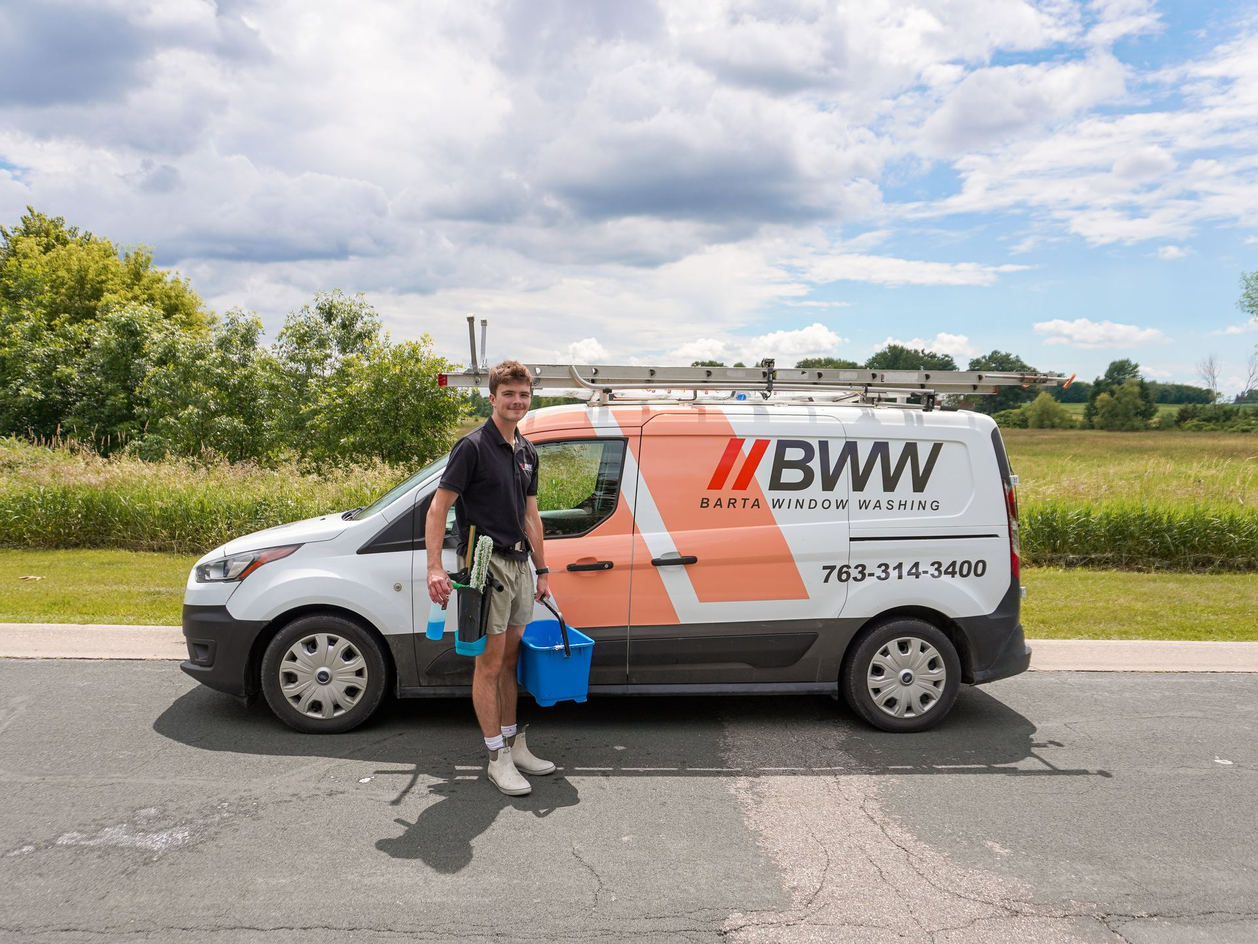
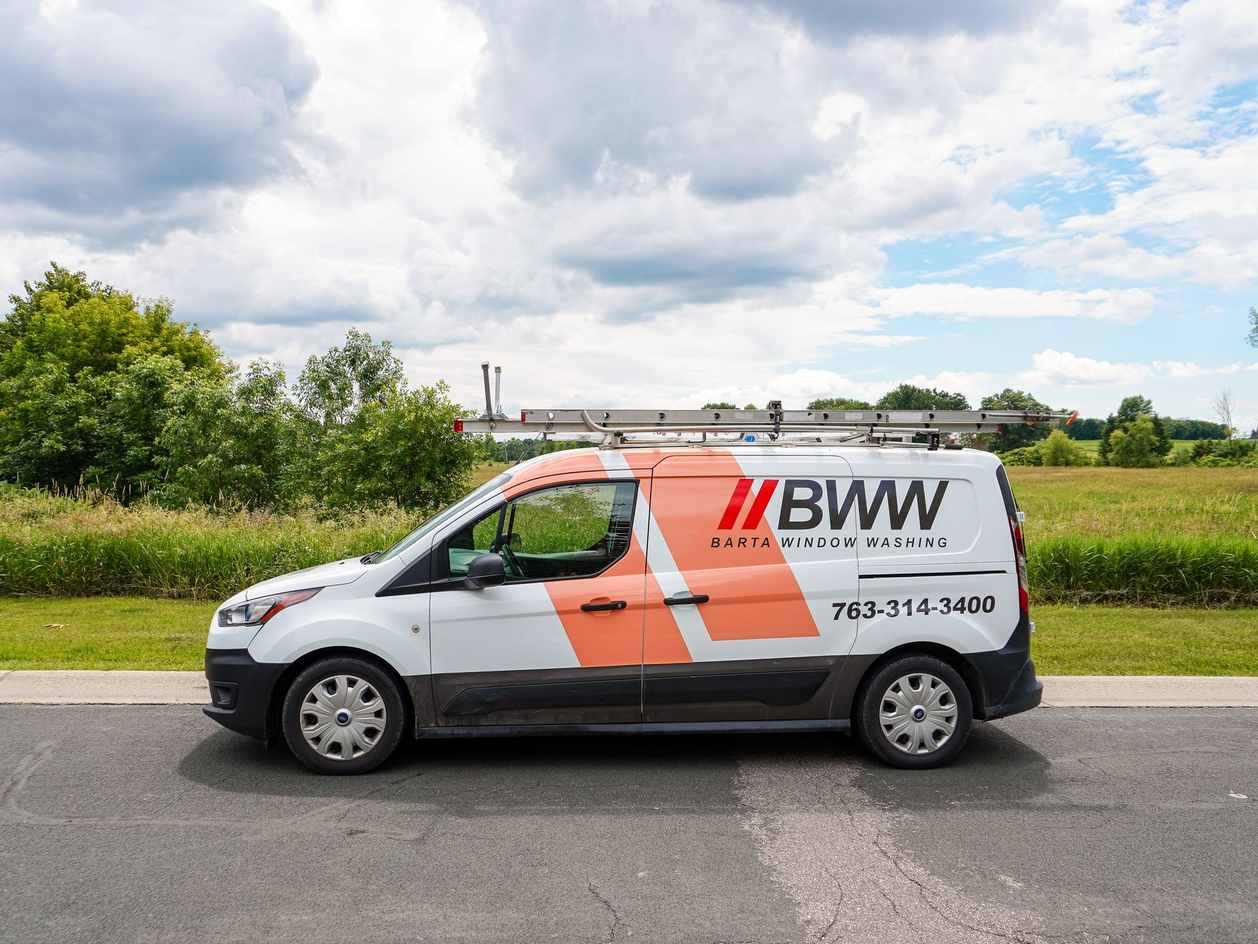
Use van-only photo (DSC02952) as the homepage hero
Optimize the new clean BWW van side-profile to 1920px/~480KB and set it
as the hero image, replacing the man-in-front-of-van shot. Center the
crop and add a subtle text-shadow so the headline stays legible over the
van's light body. Removed the 15MB original.

Claude-Session: https://claude.ai/code/session_01WscfW7U3vZd4WemqUDrm97

diff --git a/index.html b/index.html
@@ -25,7 +25,7 @@
 <link rel="preconnect" href="https://cdn.fontshare.com" crossorigin>
 <link rel="preload" as="style" href="https://api.fontshare.com/v2/css?f[]=cabinet-grotesk@700,800,900&f[]=general-sans@400,500,600,700&display=swap">
 <link rel="stylesheet" href="https://api.fontshare.com/v2/css?f[]=cabinet-grotesk@700,800,900&f[]=general-sans@400,500,600,700&display=swap">
-<link rel="stylesheet" href="assets/css/styles.css?v=42476588">
+<link rel="stylesheet" href="assets/css/styles.css?v=a678b46b">
 <link rel="icon" href="assets/img/favicon.svg" type="image/svg+xml">
 <link rel="manifest" href="site.webmanifest">
 <script type="application/ld+json">{"@context":"https://schema.org","@type":"HomeAndConstructionBusiness","@id":"https://www.bartawindowwashing.com/#business","name":"Barta Window Washing","description":"Premium residential and commercial exterior cleaning \u2014 window cleaning, gutter cleaning, pressure washing, house & roof soft washing, and holiday lighting in Delano, MN and the western Twin Cities metro.","url":"https://www.bartawindowwashing.com","telephone":"(763) 555-0142","email":"hello@bartawindowwashing.com","priceRange":"$$","image":"https://www.bartawindowwashing.com/assets/img/og-cover.svg","logo":"https://www.bartawindowwashing.com/assets/img/favicon.svg","foundingDate":"2014","address":{"@type":"PostalAddress","streetAddress":"1 Bridge Avenue","addressLocality":"Delano","addressRegion":"MN","postalCode":"55328","addressCountry":"US"},"geo":{"@type":"GeoCoordinates","latitude":"45.0419","longitude":"-93.7891"},"openingHoursSpecification":[{"@type":"OpeningHoursSpecification","dayOfWeek":["Monday","Tuesday","Wednesday","Thursday","Friday","Saturday"],"opens":"07:00","closes":"19:00"}],"areaServed":[{"@type":"City","name":"Delano, MN"},{"@type":"City","name":"Maple Grove, MN"},{"@type":"City","name":"Plymouth, MN"},{"@type":"City","name":"Wayzata, MN"},{"@type":"City","name":"Minnetonka, MN"},{"@type":"City","name":"Buffalo, MN"},{"@type":"City","name":"Rockford, MN"},{"@type":"City","name":"Waconia, MN"},{"@type":"City","name":"Chanhassen, MN"},{"@type":"City","name":"Medina, MN"},{"@type":"City","name":"Corcoran, MN"},{"@type":"City","name":"Watertown, MN"}],"sameAs":["https://www.facebook.com/bartawindowwashing","https://www.instagram.com/bartawindowwashing","https://g.page/bartawindowwashing"],"aggregateRating":{"@type":"AggregateRating","ratingValue":"4.9","reviewCount":"327","bestRating":"5"},"makesOffer":{"@type":"Offer","name":"Free Exterior Cleaning Quote","price":"0","priceCurrency":"USD"}}</script>
@@ -97,7 +97,7 @@
 <main id="main">
   <!-- HERO -->
   <section class="hero hero-photo-full">
-    <img class="hero-bg-img" src="assets/img/hero-home.jpg" alt="Barta Window Washing technician with the branded BWW service van in the Delano, MN area" width="1920" height="1442" fetchpriority="high" decoding="async">
+    <img class="hero-bg-img" src="assets/img/hero-home.jpg" alt="The branded Barta Window Washing (BWW) service van in the Delano, MN area" width="1920" height="1442" fetchpriority="high" decoding="async">
     <div class="hero-overlay"></div>
     <div class="container">
       <div class="hero-content reveal in">
@@ -392,6 +392,6 @@
     </div>
   </div>
 </footer>
-<script src="assets/js/main.js?v=42476588" defer></script>
+<script src="assets/js/main.js?v=a678b46b" defer></script>
 </body>
 </html>

diff --git a/areas/buffalo.html b/areas/buffalo.html
@@ -25,7 +25,7 @@
 <link rel="preconnect" href="https://cdn.fontshare.com" crossorigin>
 <link rel="preload" as="style" href="https://api.fontshare.com/v2/css?f[]=cabinet-grotesk@700,800,900&f[]=general-sans@400,500,600,700&display=swap">
 <link rel="stylesheet" href="https://api.fontshare.com/v2/css?f[]=cabinet-grotesk@700,800,900&f[]=general-sans@400,500,600,700&display=swap">
-<link rel="stylesheet" href="../assets/css/styles.css?v=42476588">
+<link rel="stylesheet" href="../assets/css/styles.css?v=a678b46b">
 <link rel="icon" href="../assets/img/favicon.svg" type="image/svg+xml">
 <link rel="manifest" href="../site.webmanifest">
 <script type="application/ld+json">{"@context":"https://schema.org","@type":"HomeAndConstructionBusiness","@id":"https://www.bartawindowwashing.com/#business","name":"Barta Window Washing","description":"Premium residential and commercial exterior cleaning \u2014 window cleaning, gutter cleaning, pressure washing, house & roof soft washing, and holiday lighting in Delano, MN and the western Twin Cities metro.","url":"https://www.bartawindowwashing.com","telephone":"(763) 555-0142","email":"hello@bartawindowwashing.com","priceRange":"$$","image":"https://www.bartawindowwashing.com/assets/img/og-cover.svg","logo":"https://www.bartawindowwashing.com/assets/img/favicon.svg","foundingDate":"2014","address":{"@type":"PostalAddress","streetAddress":"1 Bridge Avenue","addressLocality":"Delano","addressRegion":"MN","postalCode":"55328","addressCountry":"US"},"geo":{"@type":"GeoCoordinates","latitude":"45.0419","longitude":"-93.7891"},"openingHoursSpecification":[{"@type":"OpeningHoursSpecification","dayOfWeek":["Monday","Tuesday","Wednesday","Thursday","Friday","Saturday"],"opens":"07:00","closes":"19:00"}],"areaServed":[{"@type":"City","name":"Delano, MN"},{"@type":"City","name":"Maple Grove, MN"},{"@type":"City","name":"Plymouth, MN"},{"@type":"City","name":"Wayzata, MN"},{"@type":"City","name":"Minnetonka, MN"},{"@type":"City","name":"Buffalo, MN"},{"@type":"City","name":"Rockford, MN"},{"@type":"City","name":"Waconia, MN"},{"@type":"City","name":"Chanhassen, MN"},{"@type":"City","name":"Medina, MN"},{"@type":"City","name":"Corcoran, MN"},{"@type":"City","name":"Watertown, MN"}],"sameAs":["https://www.facebook.com/bartawindowwashing","https://www.instagram.com/bartawindowwashing","https://g.page/bartawindowwashing"],"aggregateRating":{"@type":"AggregateRating","ratingValue":"4.9","reviewCount":"327","bestRating":"5"},"makesOffer":{"@type":"Offer","name":"Free Exterior Cleaning Quote","price":"0","priceCurrency":"USD"}}</script>
@@ -241,6 +241,6 @@
     </div>
   </div>
 </footer>
-<script src="../assets/js/main.js?v=42476588" defer></script>
+<script src="../assets/js/main.js?v=a678b46b" defer></script>
 </body>
 </html>

diff --git a/areas/chanhassen.html b/areas/chanhassen.html
@@ -25,7 +25,7 @@
 <link rel="preconnect" href="https://cdn.fontshare.com" crossorigin>
 <link rel="preload" as="style" href="https://api.fontshare.com/v2/css?f[]=cabinet-grotesk@700,800,900&f[]=general-sans@400,500,600,700&display=swap">
 <link rel="stylesheet" href="https://api.fontshare.com/v2/css?f[]=cabinet-grotesk@700,800,900&f[]=general-sans@400,500,600,700&display=swap">
-<link rel="stylesheet" href="../assets/css/styles.css?v=42476588">
+<link rel="stylesheet" href="../assets/css/styles.css?v=a678b46b">
 <link rel="icon" href="../assets/img/favicon.svg" type="image/svg+xml">
 <link rel="manifest" href="../site.webmanifest">
 <script type="application/ld+json">{"@context":"https://schema.org","@type":"HomeAndConstructionBusiness","@id":"https://www.bartawindowwashing.com/#business","name":"Barta Window Washing","description":"Premium residential and commercial exterior cleaning \u2014 window cleaning, gutter cleaning, pressure washing, house & roof soft washing, and holiday lighting in Delano, MN and the western Twin Cities metro.","url":"https://www.bartawindowwashing.com","telephone":"(763) 555-0142","email":"hello@bartawindowwashing.com","priceRange":"$$","image":"https://www.bartawindowwashing.com/assets/img/og-cover.svg","logo":"https://www.bartawindowwashing.com/assets/img/favicon.svg","foundingDate":"2014","address":{"@type":"PostalAddress","streetAddress":"1 Bridge Avenue","addressLocality":"Delano","addressRegion":"MN","postalCode":"55328","addressCountry":"US"},"geo":{"@type":"GeoCoordinates","latitude":"45.0419","longitude":"-93.7891"},"openingHoursSpecification":[{"@type":"OpeningHoursSpecification","dayOfWeek":["Monday","Tuesday","Wednesday","Thursday","Friday","Saturday"],"opens":"07:00","closes":"19:00"}],"areaServed":[{"@type":"City","name":"Delano, MN"},{"@type":"City","name":"Maple Grove, MN"},{"@type":"City","name":"Plymouth, MN"},{"@type":"City","name":"Wayzata, MN"},{"@type":"City","name":"Minnetonka, MN"},{"@type":"City","name":"Buffalo, MN"},{"@type":"City","name":"Rockford, MN"},{"@type":"City","name":"Waconia, MN"},{"@type":"City","name":"Chanhassen, MN"},{"@type":"City","name":"Medina, MN"},{"@type":"City","name":"Corcoran, MN"},{"@type":"City","name":"Watertown, MN"}],"sameAs":["https://www.facebook.com/bartawindowwashing","https://www.instagram.com/bartawindowwashing","https://g.page/bartawindowwashing"],"aggregateRating":{"@type":"AggregateRating","ratingValue":"4.9","reviewCount":"327","bestRating":"5"},"makesOffer":{"@type":"Offer","name":"Free Exterior Cleaning Quote","price":"0","priceCurrency":"USD"}}</script>
@@ -241,6 +241,6 @@
     </div>
   </div>
 </footer>
-<script src="../assets/js/main.js?v=42476588" defer></script>
+<script src="../assets/js/main.js?v=a678b46b" defer></script>
 </body>
 </html>

diff --git a/areas/corcoran.html b/areas/corcoran.html
@@ -25,7 +25,7 @@
 <link rel="preconnect" href="https://cdn.fontshare.com" crossorigin>
 <link rel="preload" as="style" href="https://api.fontshare.com/v2/css?f[]=cabinet-grotesk@700,800,900&f[]=general-sans@400,500,600,700&display=swap">
 <link rel="stylesheet" href="https://api.fontshare.com/v2/css?f[]=cabinet-grotesk@700,800,900&f[]=general-sans@400,500,600,700&display=swap">
-<link rel="stylesheet" href="../assets/css/styles.css?v=42476588">
+<link rel="stylesheet" href="../assets/css/styles.css?v=a678b46b">
 <link rel="icon" href="../assets/img/favicon.svg" type="image/svg+xml">
 <link rel="manifest" href="../site.webmanifest">
 <script type="application/ld+json">{"@context":"https://schema.org","@type":"HomeAndConstructionBusiness","@id":"https://www.bartawindowwashing.com/#business","name":"Barta Window Washing","description":"Premium residential and commercial exterior cleaning \u2014 window cleaning, gutter cleaning, pressure washing, house & roof soft washing, and holiday lighting in Delano, MN and the western Twin Cities metro.","url":"https://www.bartawindowwashing.com","telephone":"(763) 555-0142","email":"hello@bartawindowwashing.com","priceRange":"$$","image":"https://www.bartawindowwashing.com/assets/img/og-cover.svg","logo":"https://www.bartawindowwashing.com/assets/img/favicon.svg","foundingDate":"2014","address":{"@type":"PostalAddress","streetAddress":"1 Bridge Avenue","addressLocality":"Delano","addressRegion":"MN","postalCode":"55328","addressCountry":"US"},"geo":{"@type":"GeoCoordinates","latitude":"45.0419","longitude":"-93.7891"},"openingHoursSpecification":[{"@type":"OpeningHoursSpecification","dayOfWeek":["Monday","Tuesday","Wednesday","Thursday","Friday","Saturday"],"opens":"07:00","closes":"19:00"}],"areaServed":[{"@type":"City","name":"Delano, MN"},{"@type":"City","name":"Maple Grove, MN"},{"@type":"City","name":"Plymouth, MN"},{"@type":"City","name":"Wayzata, MN"},{"@type":"City","name":"Minnetonka, MN"},{"@type":"City","name":"Buffalo, MN"},{"@type":"City","name":"Rockford, MN"},{"@type":"City","name":"Waconia, MN"},{"@type":"City","name":"Chanhassen, MN"},{"@type":"City","name":"Medina, MN"},{"@type":"City","name":"Corcoran, MN"},{"@type":"City","name":"Watertown, MN"}],"sameAs":["https://www.facebook.com/bartawindowwashing","https://www.instagram.com/bartawindowwashing","https://g.page/bartawindowwashing"],"aggregateRating":{"@type":"AggregateRating","ratingValue":"4.9","reviewCount":"327","bestRating":"5"},"makesOffer":{"@type":"Offer","name":"Free Exterior Cleaning Quote","price":"0","priceCurrency":"USD"}}</script>
@@ -241,6 +241,6 @@
     </div>
   </div>
 </footer>
-<script src="../assets/js/main.js?v=42476588" defer></script>
+<script src="../assets/js/main.js?v=a678b46b" defer></script>
 </body>
 </html>

diff --git a/areas/delano.html b/areas/delano.html
@@ -25,7 +25,7 @@
 <link rel="preconnect" href="https://cdn.fontshare.com" crossorigin>
 <link rel="preload" as="style" href="https://api.fontshare.com/v2/css?f[]=cabinet-grotesk@700,800,900&f[]=general-sans@400,500,600,700&display=swap">
 <link rel="stylesheet" href="https://api.fontshare.com/v2/css?f[]=cabinet-grotesk@700,800,900&f[]=general-sans@400,500,600,700&display=swap">
-<link rel="stylesheet" href="../assets/css/styles.css?v=42476588">
+<link rel="stylesheet" href="../assets/css/styles.css?v=a678b46b">
 <link rel="icon" href="../assets/img/favicon.svg" type="image/svg+xml">
 <link rel="manifest" href="../site.webmanifest">
 <script type="application/ld+json">{"@context":"https://schema.org","@type":"HomeAndConstructionBusiness","@id":"https://www.bartawindowwashing.com/#business","name":"Barta Window Washing","description":"Premium residential and commercial exterior cleaning \u2014 window cleaning, gutter cleaning, pressure washing, house & roof soft washing, and holiday lighting in Delano, MN and the western Twin Cities metro.","url":"https://www.bartawindowwashing.com","telephone":"(763) 555-0142","email":"hello@bartawindowwashing.com","priceRange":"$$","image":"https://www.bartawindowwashing.com/assets/img/og-cover.svg","logo":"https://www.bartawindowwashing.com/assets/img/favicon.svg","foundingDate":"2014","address":{"@type":"PostalAddress","streetAddress":"1 Bridge Avenue","addressLocality":"Delano","addressRegion":"MN","postalCode":"55328","addressCountry":"US"},"geo":{"@type":"GeoCoordinates","latitude":"45.0419","longitude":"-93.7891"},"openingHoursSpecification":[{"@type":"OpeningHoursSpecification","dayOfWeek":["Monday","Tuesday","Wednesday","Thursday","Friday","Saturday"],"opens":"07:00","closes":"19:00"}],"areaServed":[{"@type":"City","name":"Delano, MN"},{"@type":"City","name":"Maple Grove, MN"},{"@type":"City","name":"Plymouth, MN"},{"@type":"City","name":"Wayzata, MN"},{"@type":"City","name":"Minnetonka, MN"},{"@type":"City","name":"Buffalo, MN"},{"@type":"City","name":"Rockford, MN"},{"@type":"City","name":"Waconia, MN"},{"@type":"City","name":"Chanhassen, MN"},{"@type":"City","name":"Medina, MN"},{"@type":"City","name":"Corcoran, MN"},{"@type":"City","name":"Watertown, MN"}],"sameAs":["https://www.facebook.com/bartawindowwashing","https://www.instagram.com/bartawindowwashing","https://g.page/bartawindowwashing"],"aggregateRating":{"@type":"AggregateRating","ratingValue":"4.9","reviewCount":"327","bestRating":"5"},"makesOffer":{"@type":"Offer","name":"Free Exterior Cleaning Quote","price":"0","priceCurrency":"USD"}}</script>
@@ -241,6 +241,6 @@
     </div>
   </div>
 </footer>
-<script src="../assets/js/main.js?v=42476588" defer></script>
+<script src="../assets/js/main.js?v=a678b46b" defer></script>
 </body>
 </html>

diff --git a/areas/maple-grove.html b/areas/maple-grove.html
@@ -25,7 +25,7 @@
 <link rel="preconnect" href="https://cdn.fontshare.com" crossorigin>
 <link rel="preload" as="style" href="https://api.fontshare.com/v2/css?f[]=cabinet-grotesk@700,800,900&f[]=general-sans@400,500,600,700&display=swap">
 <link rel="stylesheet" href="https://api.fontshare.com/v2/css?f[]=cabinet-grotesk@700,800,900&f[]=general-sans@400,500,600,700&display=swap">
-<link rel="stylesheet" href="../assets/css/styles.css?v=42476588">
+<link rel="stylesheet" href="../assets/css/styles.css?v=a678b46b">
 <link rel="icon" href="../assets/img/favicon.svg" type="image/svg+xml">
 <link rel="manifest" href="../site.webmanifest">
 <script type="application/ld+json">{"@context":"https://schema.org","@type":"HomeAndConstructionBusiness","@id":"https://www.bartawindowwashing.com/#business","name":"Barta Window Washing","description":"Premium residential and commercial exterior cleaning \u2014 window cleaning, gutter cleaning, pressure washing, house & roof soft washing, and holiday lighting in Delano, MN and the western Twin Cities metro.","url":"https://www.bartawindowwashing.com","telephone":"(763) 555-0142","email":"hello@bartawindowwashing.com","priceRange":"$$","image":"https://www.bartawindowwashing.com/assets/img/og-cover.svg","logo":"https://www.bartawindowwashing.com/assets/img/favicon.svg","foundingDate":"2014","address":{"@type":"PostalAddress","streetAddress":"1 Bridge Avenue","addressLocality":"Delano","addressRegion":"MN","postalCode":"55328","addressCountry":"US"},"geo":{"@type":"GeoCoordinates","latitude":"45.0419","longitude":"-93.7891"},"openingHoursSpecification":[{"@type":"OpeningHoursSpecification","dayOfWeek":["Monday","Tuesday","Wednesday","Thursday","Friday","Saturday"],"opens":"07:00","closes":"19:00"}],"areaServed":[{"@type":"City","name":"Delano, MN"},{"@type":"City","name":"Maple Grove, MN"},{"@type":"City","name":"Plymouth, MN"},{"@type":"City","name":"Wayzata, MN"},{"@type":"City","name":"Minnetonka, MN"},{"@type":"City","name":"Buffalo, MN"},{"@type":"City","name":"Rockford, MN"},{"@type":"City","name":"Waconia, MN"},{"@type":"City","name":"Chanhassen, MN"},{"@type":"City","name":"Medina, MN"},{"@type":"City","name":"Corcoran, MN"},{"@type":"City","name":"Watertown, MN"}],"sameAs":["https://www.facebook.com/bartawindowwashing","https://www.instagram.com/bartawindowwashing","https://g.page/bartawindowwashing"],"aggregateRating":{"@type":"AggregateRating","ratingValue":"4.9","reviewCount":"327","bestRating":"5"},"makesOffer":{"@type":"Offer","name":"Free Exterior Cleaning Quote","price":"0","priceCurrency":"USD"}}</script>
@@ -241,6 +241,6 @@
     </div>
   </div>
 </footer>
-<script src="../assets/js/main.js?v=42476588" defer></script>
+<script src="../assets/js/main.js?v=a678b46b" defer></script>
 </body>
 </html>

diff --git a/areas/medina.html b/areas/medina.html
@@ -25,7 +25,7 @@
 <link rel="preconnect" href="https://cdn.fontshare.com" crossorigin>
 <link rel="preload" as="style" href="https://api.fontshare.com/v2/css?f[]=cabinet-grotesk@700,800,900&f[]=general-sans@400,500,600,700&display=swap">
 <link rel="stylesheet" href="https://api.fontshare.com/v2/css?f[]=cabinet-grotesk@700,800,900&f[]=general-sans@400,500,600,700&display=swap">
-<link rel="stylesheet" href="../assets/css/styles.css?v=42476588">
+<link rel="stylesheet" href="../assets/css/styles.css?v=a678b46b">
 <link rel="icon" href="../assets/img/favicon.svg" type="image/svg+xml">
 <link rel="manifest" href="../site.webmanifest">
 <script type="application/ld+json">{"@context":"https://schema.org","@type":"HomeAndConstructionBusiness","@id":"https://www.bartawindowwashing.com/#business","name":"Barta Window Washing","description":"Premium residential and commercial exterior cleaning \u2014 window cleaning, gutter cleaning, pressure washing, house & roof soft washing, and holiday lighting in Delano, MN and the western Twin Cities metro.","url":"https://www.bartawindowwashing.com","telephone":"(763) 555-0142","email":"hello@bartawindowwashing.com","priceRange":"$$","image":"https://www.bartawindowwashing.com/assets/img/og-cover.svg","logo":"https://www.bartawindowwashing.com/assets/img/favicon.svg","foundingDate":"2014","address":{"@type":"PostalAddress","streetAddress":"1 Bridge Avenue","addressLocality":"Delano","addressRegion":"MN","postalCode":"55328","addressCountry":"US"},"geo":{"@type":"GeoCoordinates","latitude":"45.0419","longitude":"-93.7891"},"openingHoursSpecification":[{"@type":"OpeningHoursSpecification","dayOfWeek":["Monday","Tuesday","Wednesday","Thursday","Friday","Saturday"],"opens":"07:00","closes":"19:00"}],"areaServed":[{"@type":"City","name":"Delano, MN"},{"@type":"City","name":"Maple Grove, MN"},{"@type":"City","name":"Plymouth, MN"},{"@type":"City","name":"Wayzata, MN"},{"@type":"City","name":"Minnetonka, MN"},{"@type":"City","name":"Buffalo, MN"},{"@type":"City","name":"Rockford, MN"},{"@type":"City","name":"Waconia, MN"},{"@type":"City","name":"Chanhassen, MN"},{"@type":"City","name":"Medina, MN"},{"@type":"City","name":"Corcoran, MN"},{"@type":"City","name":"Watertown, MN"}],"sameAs":["https://www.facebook.com/bartawindowwashing","https://www.instagram.com/bartawindowwashing","https://g.page/bartawindowwashing"],"aggregateRating":{"@type":"AggregateRating","ratingValue":"4.9","reviewCount":"327","bestRating":"5"},"makesOffer":{"@type":"Offer","name":"Free Exterior Cleaning Quote","price":"0","priceCurrency":"USD"}}</script>
@@ -241,6 +241,6 @@
     </div>
   </div>
 </footer>
-<script src="../assets/js/main.js?v=42476588" defer></script>
+<script src="../assets/js/main.js?v=a678b46b" defer></script>
 </body>
 </html>

diff --git a/areas/minnetonka.html b/areas/minnetonka.html
@@ -25,7 +25,7 @@
 <link rel="preconnect" href="https://cdn.fontshare.com" crossorigin>
 <link rel="preload" as="style" href="https://api.fontshare.com/v2/css?f[]=cabinet-grotesk@700,800,900&f[]=general-sans@400,500,600,700&display=swap">
 <link rel="stylesheet" href="https://api.fontshare.com/v2/css?f[]=cabinet-grotesk@700,800,900&f[]=general-sans@400,500,600,700&display=swap">
-<link rel="stylesheet" href="../assets/css/styles.css?v=42476588">
+<link rel="stylesheet" href="../assets/css/styles.css?v=a678b46b">
 <link rel="icon" href="../assets/img/favicon.svg" type="image/svg+xml">
 <link rel="manifest" href="../site.webmanifest">
 <script type="application/ld+json">{"@context":"https://schema.org","@type":"HomeAndConstructionBusiness","@id":"https://www.bartawindowwashing.com/#business","name":"Barta Window Washing","description":"Premium residential and commercial exterior cleaning \u2014 window cleaning, gutter cleaning, pressure washing, house & roof soft washing, and holiday lighting in Delano, MN and the western Twin Cities metro.","url":"https://www.bartawindowwashing.com","telephone":"(763) 555-0142","email":"hello@bartawindowwashing.com","priceRange":"$$","image":"https://www.bartawindowwashing.com/assets/img/og-cover.svg","logo":"https://www.bartawindowwashing.com/assets/img/favicon.svg","foundingDate":"2014","address":{"@type":"PostalAddress","streetAddress":"1 Bridge Avenue","addressLocality":"Delano","addressRegion":"MN","postalCode":"55328","addressCountry":"US"},"geo":{"@type":"GeoCoordinates","latitude":"45.0419","longitude":"-93.7891"},"openingHoursSpecification":[{"@type":"OpeningHoursSpecification","dayOfWeek":["Monday","Tuesday","Wednesday","Thursday","Friday","Saturday"],"opens":"07:00","closes":"19:00"}],"areaServed":[{"@type":"City","name":"Delano, MN"},{"@type":"City","name":"Maple Grove, MN"},{"@type":"City","name":"Plymouth, MN"},{"@type":"City","name":"Wayzata, MN"},{"@type":"City","name":"Minnetonka, MN"},{"@type":"City","name":"Buffalo, MN"},{"@type":"City","name":"Rockford, MN"},{"@type":"City","name":"Waconia, MN"},{"@type":"City","name":"Chanhassen, MN"},{"@type":"City","name":"Medina, MN"},{"@type":"City","name":"Corcoran, MN"},{"@type":"City","name":"Watertown, MN"}],"sameAs":["https://www.facebook.com/bartawindowwashing","https://www.instagram.com/bartawindowwashing","https://g.page/bartawindowwashing"],"aggregateRating":{"@type":"AggregateRating","ratingValue":"4.9","reviewCount":"327","bestRating":"5"},"makesOffer":{"@type":"Offer","name":"Free Exterior Cleaning Quote","price":"0","priceCurrency":"USD"}}</script>
@@ -241,6 +241,6 @@
     </div>
   </div>
 </footer>
-<script src="../assets/js/main.js?v=42476588" defer></script>
+<script src="../assets/js/main.js?v=a678b46b" defer></script>
 </body>
 </html>

diff --git a/areas/plymouth.html b/areas/plymouth.html
@@ -25,7 +25,7 @@
 <link rel="preconnect" href="https://cdn.fontshare.com" crossorigin>
 <link rel="preload" as="style" href="https://api.fontshare.com/v2/css?f[]=cabinet-grotesk@700,800,900&f[]=general-sans@400,500,600,700&display=swap">
 <link rel="stylesheet" href="https://api.fontshare.com/v2/css?f[]=cabinet-grotesk@700,800,900&f[]=general-sans@400,500,600,700&display=swap">
-<link rel="stylesheet" href="../assets/css/styles.css?v=42476588">
+<link rel="stylesheet" href="../assets/css/styles.css?v=a678b46b">
 <link rel="icon" href="../assets/img/favicon.svg" type="image/svg+xml">
 <link rel="manifest" href="../site.webmanifest">
 <script type="application/ld+json">{"@context":"https://schema.org","@type":"HomeAndConstructionBusiness","@id":"https://www.bartawindowwashing.com/#business","name":"Barta Window Washing","description":"Premium residential and commercial exterior cleaning \u2014 window cleaning, gutter cleaning, pressure washing, house & roof soft washing, and holiday lighting in Delano, MN and the western Twin Cities metro.","url":"https://www.bartawindowwashing.com","telephone":"(763) 555-0142","email":"hello@bartawindowwashing.com","priceRange":"$$","image":"https://www.bartawindowwashing.com/assets/img/og-cover.svg","logo":"https://www.bartawindowwashing.com/assets/img/favicon.svg","foundingDate":"2014","address":{"@type":"PostalAddress","streetAddress":"1 Bridge Avenue","addressLocality":"Delano","addressRegion":"MN","postalCode":"55328","addressCountry":"US"},"geo":{"@type":"GeoCoordinates","latitude":"45.0419","longitude":"-93.7891"},"openingHoursSpecification":[{"@type":"OpeningHoursSpecification","dayOfWeek":["Monday","Tuesday","Wednesday","Thursday","Friday","Saturday"],"opens":"07:00","closes":"19:00"}],"areaServed":[{"@type":"City","name":"Delano, MN"},{"@type":"City","name":"Maple Grove, MN"},{"@type":"City","name":"Plymouth, MN"},{"@type":"City","name":"Wayzata, MN"},{"@type":"City","name":"Minnetonka, MN"},{"@type":"City","name":"Buffalo, MN"},{"@type":"City","name":"Rockford, MN"},{"@type":"City","name":"Waconia, MN"},{"@type":"City","name":"Chanhassen, MN"},{"@type":"City","name":"Medina, MN"},{"@type":"City","name":"Corcoran, MN"},{"@type":"City","name":"Watertown, MN"}],"sameAs":["https://www.facebook.com/bartawindowwashing","https://www.instagram.com/bartawindowwashing","https://g.page/bartawindowwashing"],"aggregateRating":{"@type":"AggregateRating","ratingValue":"4.9","reviewCount":"327","bestRating":"5"},"makesOffer":{"@type":"Offer","name":"Free Exterior Cleaning Quote","price":"0","priceCurrency":"USD"}}</script>
@@ -241,6 +241,6 @@
     </div>
   </div>
 </footer>
-<script src="../assets/js/main.js?v=42476588" defer></script>
+<script src="../assets/js/main.js?v=a678b46b" defer></script>
 </body>
 </html>

diff --git a/areas/rockford.html b/areas/rockford.html
@@ -25,7 +25,7 @@
 <link rel="preconnect" href="https://cdn.fontshare.com" crossorigin>
 <link rel="preload" as="style" href="https://api.fontshare.com/v2/css?f[]=cabinet-grotesk@700,800,900&f[]=general-sans@400,500,600,700&display=swap">
 <link rel="stylesheet" href="https://api.fontshare.com/v2/css?f[]=cabinet-grotesk@700,800,900&f[]=general-sans@400,500,600,700&display=swap">
-<link rel="stylesheet" href="../assets/css/styles.css?v=42476588">
+<link rel="stylesheet" href="../assets/css/styles.css?v=a678b46b">
 <link rel="icon" href="../assets/img/favicon.svg" type="image/svg+xml">
 <link rel="manifest" href="../site.webmanifest">
 <script type="application/ld+json">{"@context":"https://schema.org","@type":"HomeAndConstructionBusiness","@id":"https://www.bartawindowwashing.com/#business","name":"Barta Window Washing","description":"Premium residential and commercial exterior cleaning \u2014 window cleaning, gutter cleaning, pressure washing, house & roof soft washing, and holiday lighting in Delano, MN and the western Twin Cities metro.","url":"https://www.bartawindowwashing.com","telephone":"(763) 555-0142","email":"hello@bartawindowwashing.com","priceRange":"$$","image":"https://www.bartawindowwashing.com/assets/img/og-cover.svg","logo":"https://www.bartawindowwashing.com/assets/img/favicon.svg","foundingDate":"2014","address":{"@type":"PostalAddress","streetAddress":"1 Bridge Avenue","addressLocality":"Delano","addressRegion":"MN","postalCode":"55328","addressCountry":"US"},"geo":{"@type":"GeoCoordinates","latitude":"45.0419","longitude":"-93.7891"},"openingHoursSpecification":[{"@type":"OpeningHoursSpecification","dayOfWeek":["Monday","Tuesday","Wednesday","Thursday","Friday","Saturday"],"opens":"07:00","closes":"19:00"}],"areaServed":[{"@type":"City","name":"Delano, MN"},{"@type":"City","name":"Maple Grove, MN"},{"@type":"City","name":"Plymouth, MN"},{"@type":"City","name":"Wayzata, MN"},{"@type":"City","name":"Minnetonka, MN"},{"@type":"City","name":"Buffalo, MN"},{"@type":"City","name":"Rockford, MN"},{"@type":"City","name":"Waconia, MN"},{"@type":"City","name":"Chanhassen, MN"},{"@type":"City","name":"Medina, MN"},{"@type":"City","name":"Corcoran, MN"},{"@type":"City","name":"Watertown, MN"}],"sameAs":["https://www.facebook.com/bartawindowwashing","https://www.instagram.com/bartawindowwashing","https://g.page/bartawindowwashing"],"aggregateRating":{"@type":"AggregateRating","ratingValue":"4.9","reviewCount":"327","bestRating":"5"},"makesOffer":{"@type":"Offer","name":"Free Exterior Cleaning Quote","price":"0","priceCurrency":"USD"}}</script>
@@ -241,6 +241,6 @@
     </div>
   </div>
 </footer>
-<script src="../assets/js/main.js?v=42476588" defer></script>
+<script src="../assets/js/main.js?v=a678b46b" defer></script>
 </body>
 </html>

diff --git a/areas/waconia.html b/areas/waconia.html
@@ -25,7 +25,7 @@
 <link rel="preconnect" href="https://cdn.fontshare.com" crossorigin>
 <link rel="preload" as="style" href="https://api.fontshare.com/v2/css?f[]=cabinet-grotesk@700,800,900&f[]=general-sans@400,500,600,700&display=swap">
 <link rel="stylesheet" href="https://api.fontshare.com/v2/css?f[]=cabinet-grotesk@700,800,900&f[]=general-sans@400,500,600,700&display=swap">
-<link rel="stylesheet" href="../assets/css/styles.css?v=42476588">
+<link rel="stylesheet" href="../assets/css/styles.css?v=a678b46b">
 <link rel="icon" href="../assets/img/favicon.svg" type="image/svg+xml">
 <link rel="manifest" href="../site.webmanifest">
 <script type="application/ld+json">{"@context":"https://schema.org","@type":"HomeAndConstructionBusiness","@id":"https://www.bartawindowwashing.com/#business","name":"Barta Window Washing","description":"Premium residential and commercial exterior cleaning \u2014 window cleaning, gutter cleaning, pressure washing, house & roof soft washing, and holiday lighting in Delano, MN and the western Twin Cities metro.","url":"https://www.bartawindowwashing.com","telephone":"(763) 555-0142","email":"hello@bartawindowwashing.com","priceRange":"$$","image":"https://www.bartawindowwashing.com/assets/img/og-cover.svg","logo":"https://www.bartawindowwashing.com/assets/img/favicon.svg","foundingDate":"2014","address":{"@type":"PostalAddress","streetAddress":"1 Bridge Avenue","addressLocality":"Delano","addressRegion":"MN","postalCode":"55328","addressCountry":"US"},"geo":{"@type":"GeoCoordinates","latitude":"45.0419","longitude":"-93.7891"},"openingHoursSpecification":[{"@type":"OpeningHoursSpecification","dayOfWeek":["Monday","Tuesday","Wednesday","Thursday","Friday","Saturday"],"opens":"07:00","closes":"19:00"}],"areaServed":[{"@type":"City","name":"Delano, MN"},{"@type":"City","name":"Maple Grove, MN"},{"@type":"City","name":"Plymouth, MN"},{"@type":"City","name":"Wayzata, MN"},{"@type":"City","name":"Minnetonka, MN"},{"@type":"City","name":"Buffalo, MN"},{"@type":"City","name":"Rockford, MN"},{"@type":"City","name":"Waconia, MN"},{"@type":"City","name":"Chanhassen, MN"},{"@type":"City","name":"Medina, MN"},{"@type":"City","name":"Corcoran, MN"},{"@type":"City","name":"Watertown, MN"}],"sameAs":["https://www.facebook.com/bartawindowwashing","https://www.instagram.com/bartawindowwashing","https://g.page/bartawindowwashing"],"aggregateRating":{"@type":"AggregateRating","ratingValue":"4.9","reviewCount":"327","bestRating":"5"},"makesOffer":{"@type":"Offer","name":"Free Exterior Cleaning Quote","price":"0","priceCurrency":"USD"}}</script>
@@ -241,6 +241,6 @@
     </div>
   </div>
 </footer>
-<script src="../assets/js/main.js?v=42476588" defer></script>
+<script src="../assets/js/main.js?v=a678b46b" defer></script>
 </body>
 </html>

diff --git a/areas/watertown.html b/areas/watertown.html
@@ -25,7 +25,7 @@
 <link rel="preconnect" href="https://cdn.fontshare.com" crossorigin>
 <link rel="preload" as="style" href="https://api.fontshare.com/v2/css?f[]=cabinet-grotesk@700,800,900&f[]=general-sans@400,500,600,700&display=swap">
 <link rel="stylesheet" href="https://api.fontshare.com/v2/css?f[]=cabinet-grotesk@700,800,900&f[]=general-sans@400,500,600,700&display=swap">
-<link rel="stylesheet" href="../assets/css/styles.css?v=42476588">
+<link rel="stylesheet" href="../assets/css/styles.css?v=a678b46b">
 <link rel="icon" href="../assets/img/favicon.svg" type="image/svg+xml">
 <link rel="manifest" href="../site.webmanifest">
 <script type="application/ld+json">{"@context":"https://schema.org","@type":"HomeAndConstructionBusiness","@id":"https://www.bartawindowwashing.com/#business","name":"Barta Window Washing","description":"Premium residential and commercial exterior cleaning \u2014 window cleaning, gutter cleaning, pressure washing, house & roof soft washing, and holiday lighting in Delano, MN and the western Twin Cities metro.","url":"https://www.bartawindowwashing.com","telephone":"(763) 555-0142","email":"hello@bartawindowwashing.com","priceRange":"$$","image":"https://www.bartawindowwashing.com/assets/img/og-cover.svg","logo":"https://www.bartawindowwashing.com/assets/img/favicon.svg","foundingDate":"2014","address":{"@type":"PostalAddress","streetAddress":"1 Bridge Avenue","addressLocality":"Delano","addressRegion":"MN","postalCode":"55328","addressCountry":"US"},"geo":{"@type":"GeoCoordinates","latitude":"45.0419","longitude":"-93.7891"},"openingHoursSpecification":[{"@type":"OpeningHoursSpecification","dayOfWeek":["Monday","Tuesday","Wednesday","Thursday","Friday","Saturday"],"opens":"07:00","closes":"19:00"}],"areaServed":[{"@type":"City","name":"Delano, MN"},{"@type":"City","name":"Maple Grove, MN"},{"@type":"City","name":"Plymouth, MN"},{"@type":"City","name":"Wayzata, MN"},{"@type":"City","name":"Minnetonka, MN"},{"@type":"City","name":"Buffalo, MN"},{"@type":"City","name":"Rockford, MN"},{"@type":"City","name":"Waconia, MN"},{"@type":"City","name":"Chanhassen, MN"},{"@type":"City","name":"Medina, MN"},{"@type":"City","name":"Corcoran, MN"},{"@type":"City","name":"Watertown, MN"}],"sameAs":["https://www.facebook.com/bartawindowwashing","https://www.instagram.com/bartawindowwashing","https://g.page/bartawindowwashing"],"aggregateRating":{"@type":"AggregateRating","ratingValue":"4.9","reviewCount":"327","bestRating":"5"},"makesOffer":{"@type":"Offer","name":"Free Exterior Cleaning Quote","price":"0","priceCurrency":"USD"}}</script>
@@ -241,6 +241,6 @@
     </div>
   </div>
 </footer>
-<script src="../assets/js/main.js?v=42476588" defer></script>
+<script src="../assets/js/main.js?v=a678b46b" defer></script>
 </body>
 </html>
